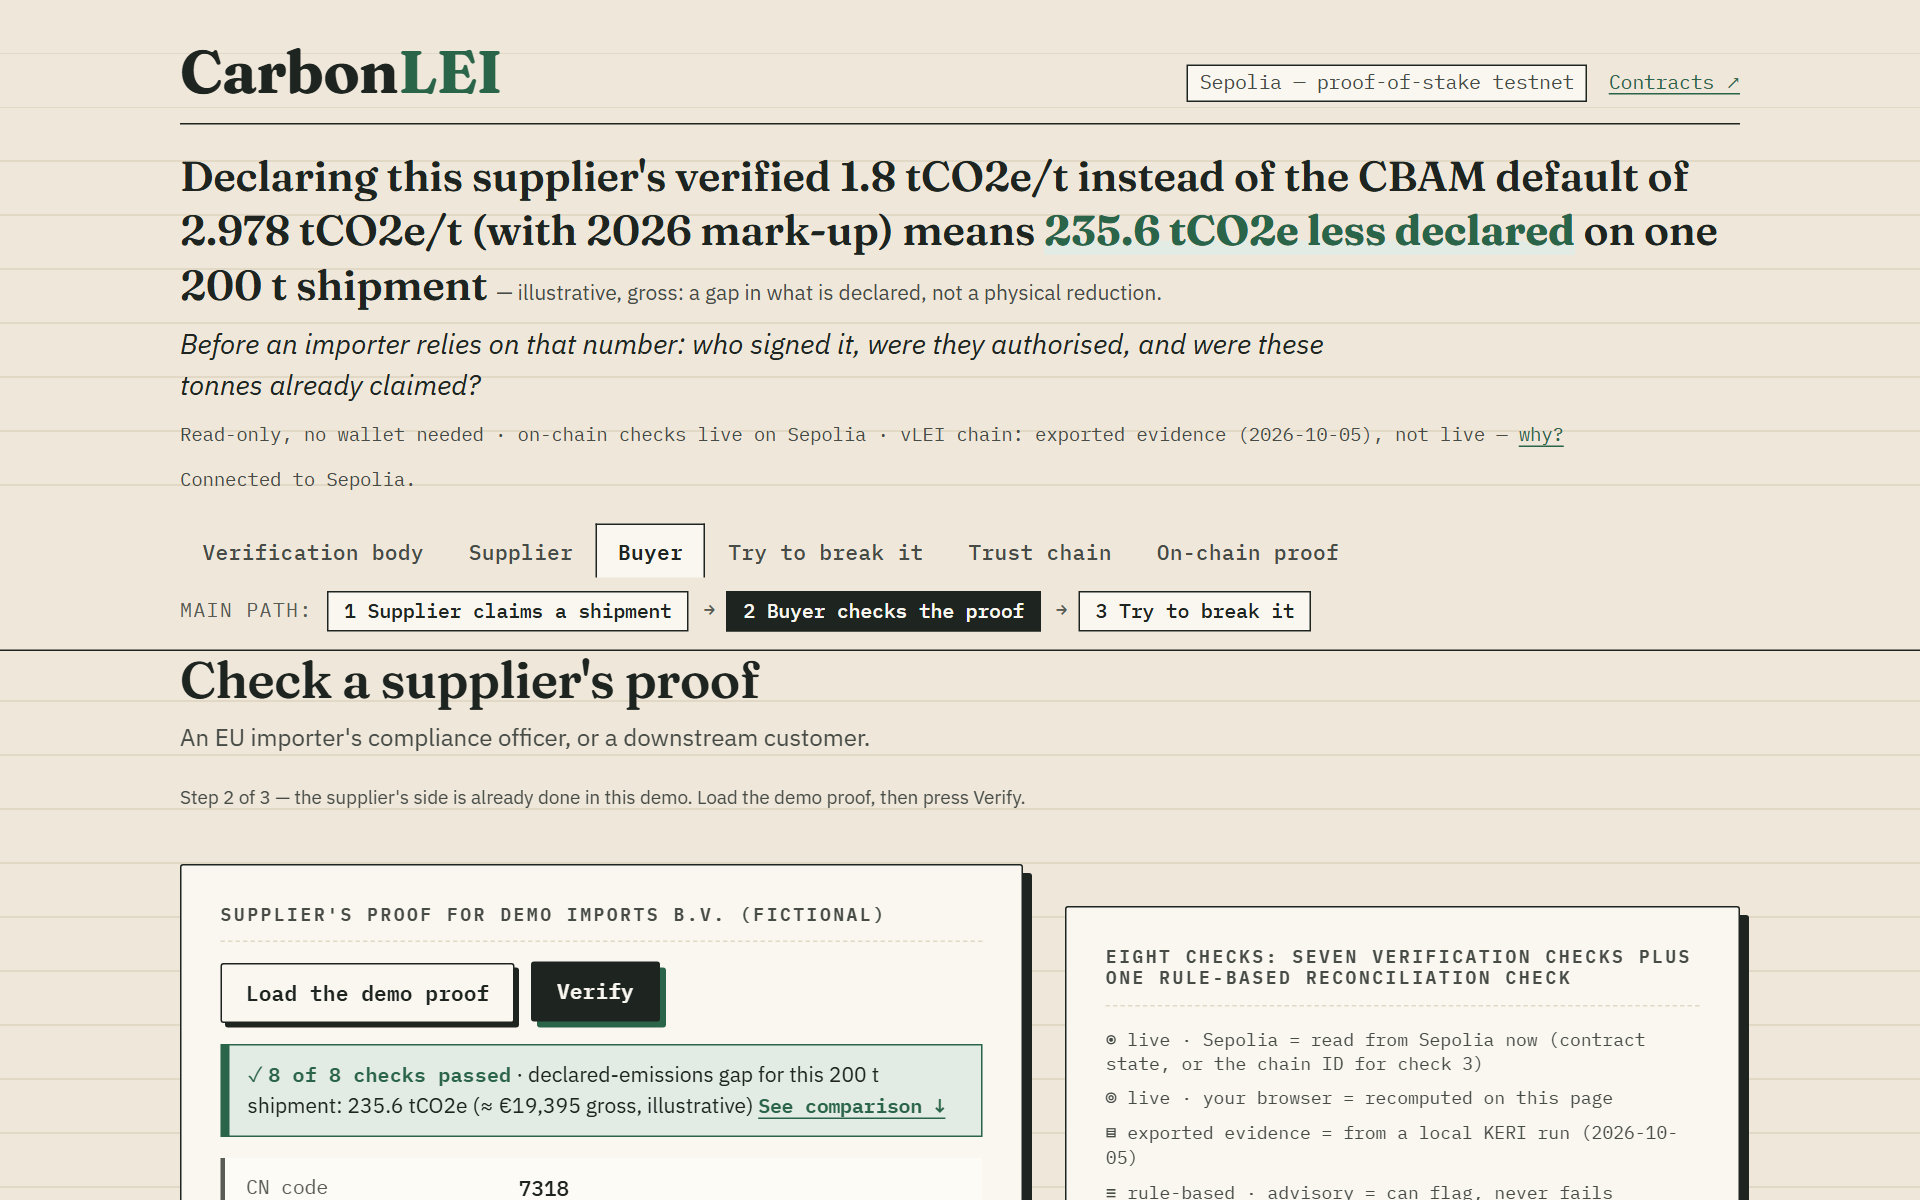
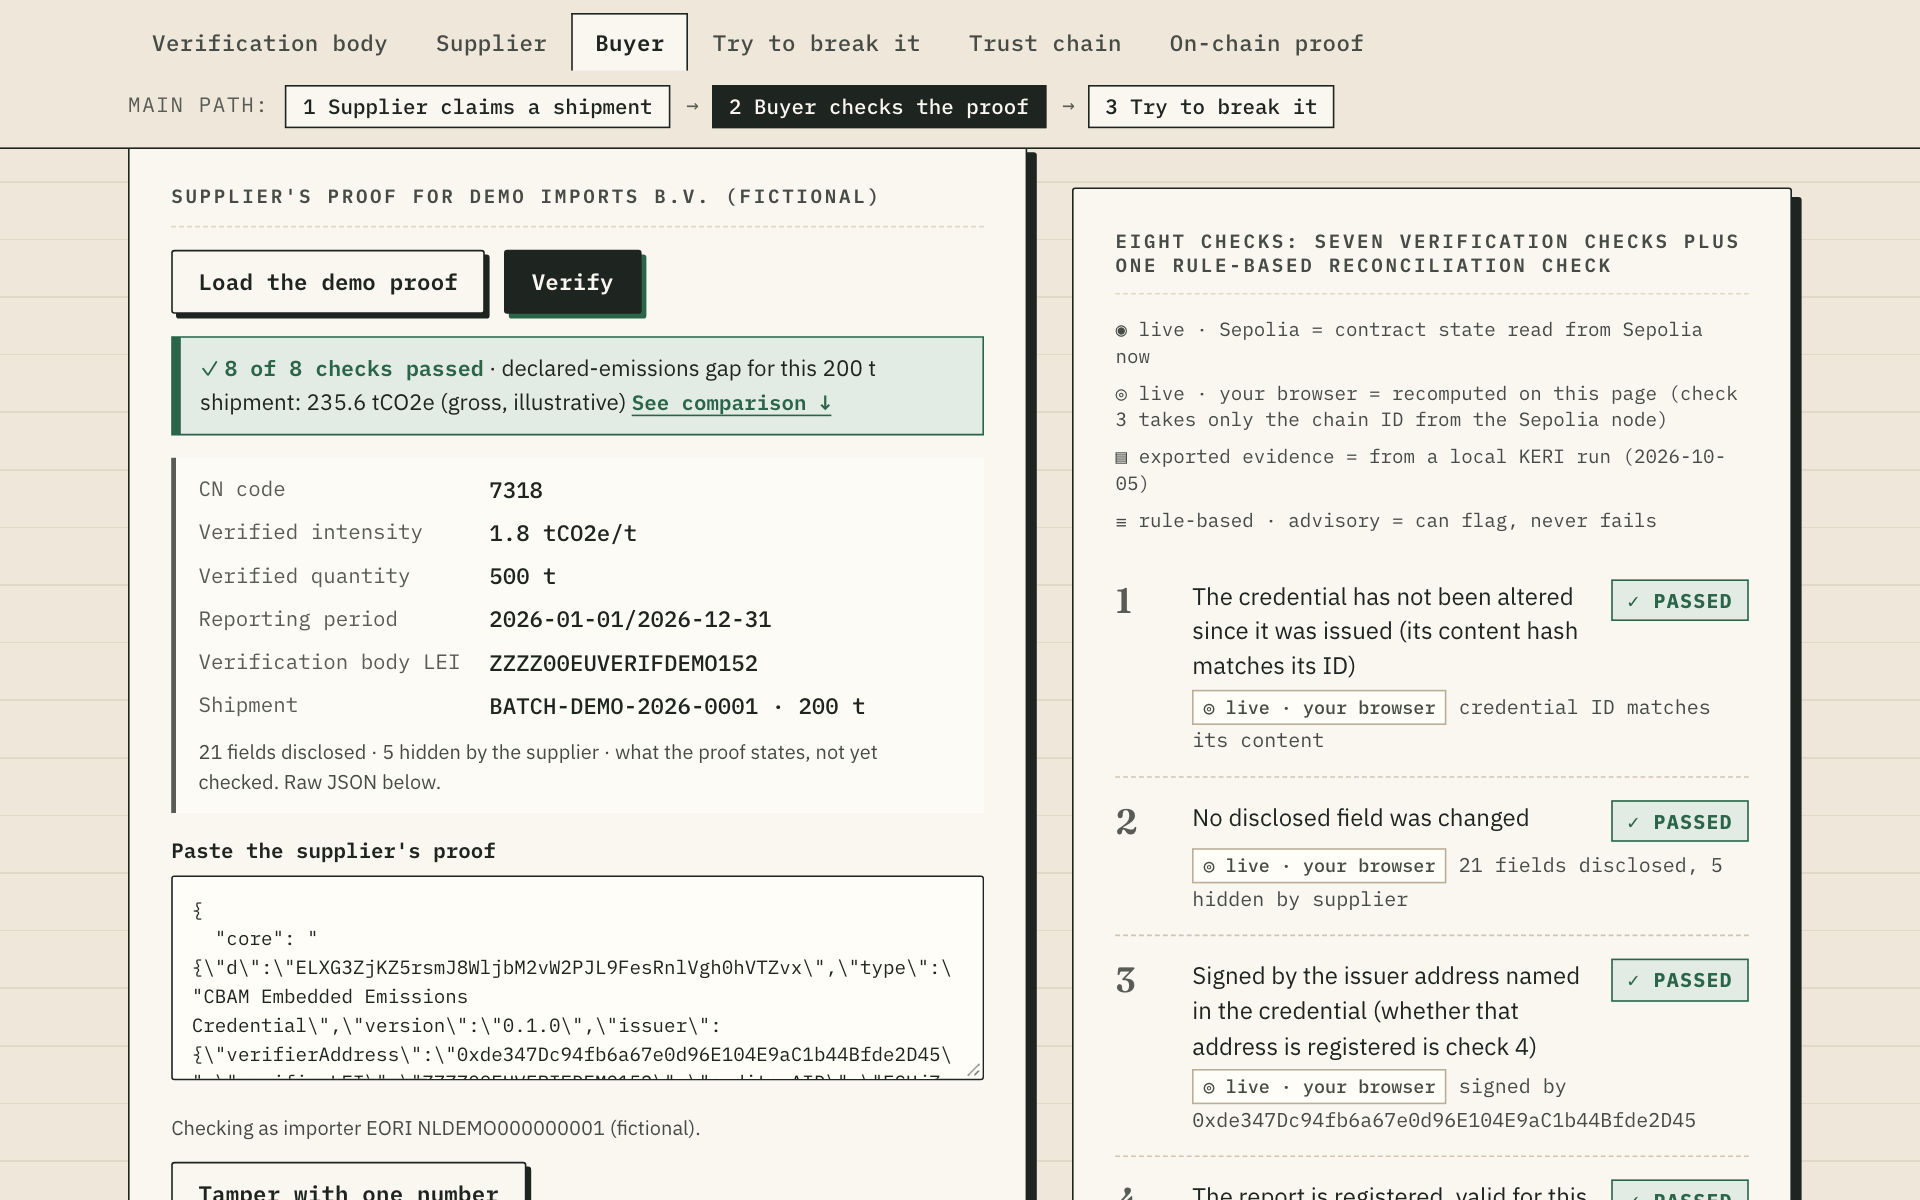
docs: current Buyer screenshot, one-click judge path, "verifiers' signatures"
- README hero image re-shot on the live page after "Verify the demo proof"
  (2026-10-08): no euro amount, new check 3 label.
- Judge's 90-second path starts with the one-click "Verify the demo proof".
- Judge brief and CLIMATE_IMPACT: each 1% moves declaration onto
  verifiers' signatures, not one verifier's.

Changed region(s): [[0.0625, 0.0308, 0.9375, 1.0], [0.8438, 0.5858, 0.875, 0.6167], [0.4375, 0.8017, 0.4688, 0.8325]]

diff --git a/README.md b/README.md
@@ -4,14 +4,14 @@ A carbon number is only as trustworthy as the person who signed it.
 
 **Checkable carbon-border (CBAM) emissions reports: who signed, were they authorised, and has each verified tonne already been claimed? GLEIF-rooted vLEI credentials plus an Ethereum Sepolia ledger.**
 
-**Judge's 90-second path:** open the [demo](https://zuemen.github.io/carbon-lei/) (read-only, no wallet) → **Load** (the demo proof) → **Verify** → **Try to break it** → card 4: press "Verify the impostor's proof".
+**Judge's 90-second path:** open the [demo](https://zuemen.github.io/carbon-lei/) (read-only, no wallet) → press **Verify the demo proof** on the first screen (it loads the proof on the Buyer tab and runs the eight checks) → **Try to break it** → card 4: press "Verify the impostor's proof".
 
 One-page judge brief (PDF): [docs/judge-brief.pdf](docs/judge-brief.pdf)
 
 **Five-minute path** (demo, phone QR, three terminal commands): [what you should see at each step](docs/JUDGING_CRITERIA.md#five-minute-path-for-reviewers).
 
-<a href="https://zuemen.github.io/carbon-lei/"><img src="docs/img/buyer-verified.png" width="440" alt="The live demo's Buyer tab after Verify: 8 of 8 checks passed and the declared-emissions gap for one 200 t shipment"></a>
-<sub>Screenshot of the live page on Sepolia, taken 2026-10-06 (not a mock-up). All companies, people and LEIs are fictional; emissions values are illustrative; the vLEI root is simulated.</sub>
+<a href="https://zuemen.github.io/carbon-lei/"><img src="docs/img/buyer-verified.png" width="440" alt="The live demo's Buyer tab after Verify: 8 of 8 checks passed, the declared-emissions gap for one 200 t shipment (gross, illustrative), and the first three checks"></a>
+<sub>Screenshot of the live page on Sepolia after one click on "Verify the demo proof", taken 2026-10-08 (not a mock-up). All companies, people and LEIs are fictional; emissions values are illustrative; the vLEI root is simulated.</sub>
 
 - **Who signed:** the lead auditor's vLEI role credential (a signed statement that this person holds this role at this verification body; vLEIs are specified in ISO 17442-3:2024), is checked against a GLEIF-rooted chain (simulated root in the demo).
 - **Were they authorised:** the contract checks, at the block that registers the report, that the body is active and accredited and the auditor is not revoked.

diff --git a/docs/CLIMATE_IMPACT.md b/docs/CLIMATE_IMPACT.md
@@ -196,7 +196,7 @@ What CarbonLEI itself adds is the integrity of verified data: software can check
 |---|---|---|
 | EU imports of CN 7318 from Taiwan, 2025 | about €1.22 billion and 371,270 t | [6] |
 | Taiwan's share of extra-EU imports of CN 7318, 2025 | 18.6% by value, 20.3% by weight; second after China | [6] |
-| Declarations that rest on a default or on a verifier's signature | If all 371,270 t were declared at the 2026 default: about 1.11 MtCO2e of declared embedded emissions (371,270 × 2.978). Each 1% of that tonnage declared on a verified value instead moves about 11,060 tCO2e of declaration (3,712.7 t × 2.978) from the default onto one verifier's signature. These are declared amounts, not emissions avoided and not a gap; 2025 tonnes (transitional period) are a proxy for 2026, the 50 t de minimis threshold makes them an upper bound, and the default applies to Taiwan only, so it must not be multiplied by extra-EU tonnes | [1], [6] |
+| Declarations that rest on a default or on a verifier's signature | If all 371,270 t were declared at the 2026 default: about 1.11 MtCO2e of declared embedded emissions (371,270 × 2.978). Each 1% of that tonnage declared on a verified value instead moves about 11,060 tCO2e of declaration (3,712.7 t × 2.978) from the default onto verifiers' signatures. These are declared amounts, not emissions avoided and not a gap; 2025 tonnes (transitional period) are a proxy for 2026, the 50 t de minimis threshold makes them an upper bound, and the default applies to Taiwan only, so it must not be multiplied by extra-EU tonnes | [1], [6] |
 | Default value, CN 7318 from Taiwan | 2.707 tCO2e/t direct; 2.978 in 2026; about 3.25 in 2027; 3.519 from 2028 | [1] |
 | Company identifier | The Commission's guidance lists LEI as an accepted operator identifier for operators from countries such as Taiwan | [10] |
 | Verification capacity | 5 of 24 EU/EEA national accreditation bodies accepting non-EU verifier applications on 29 September 2026 | [2] |
